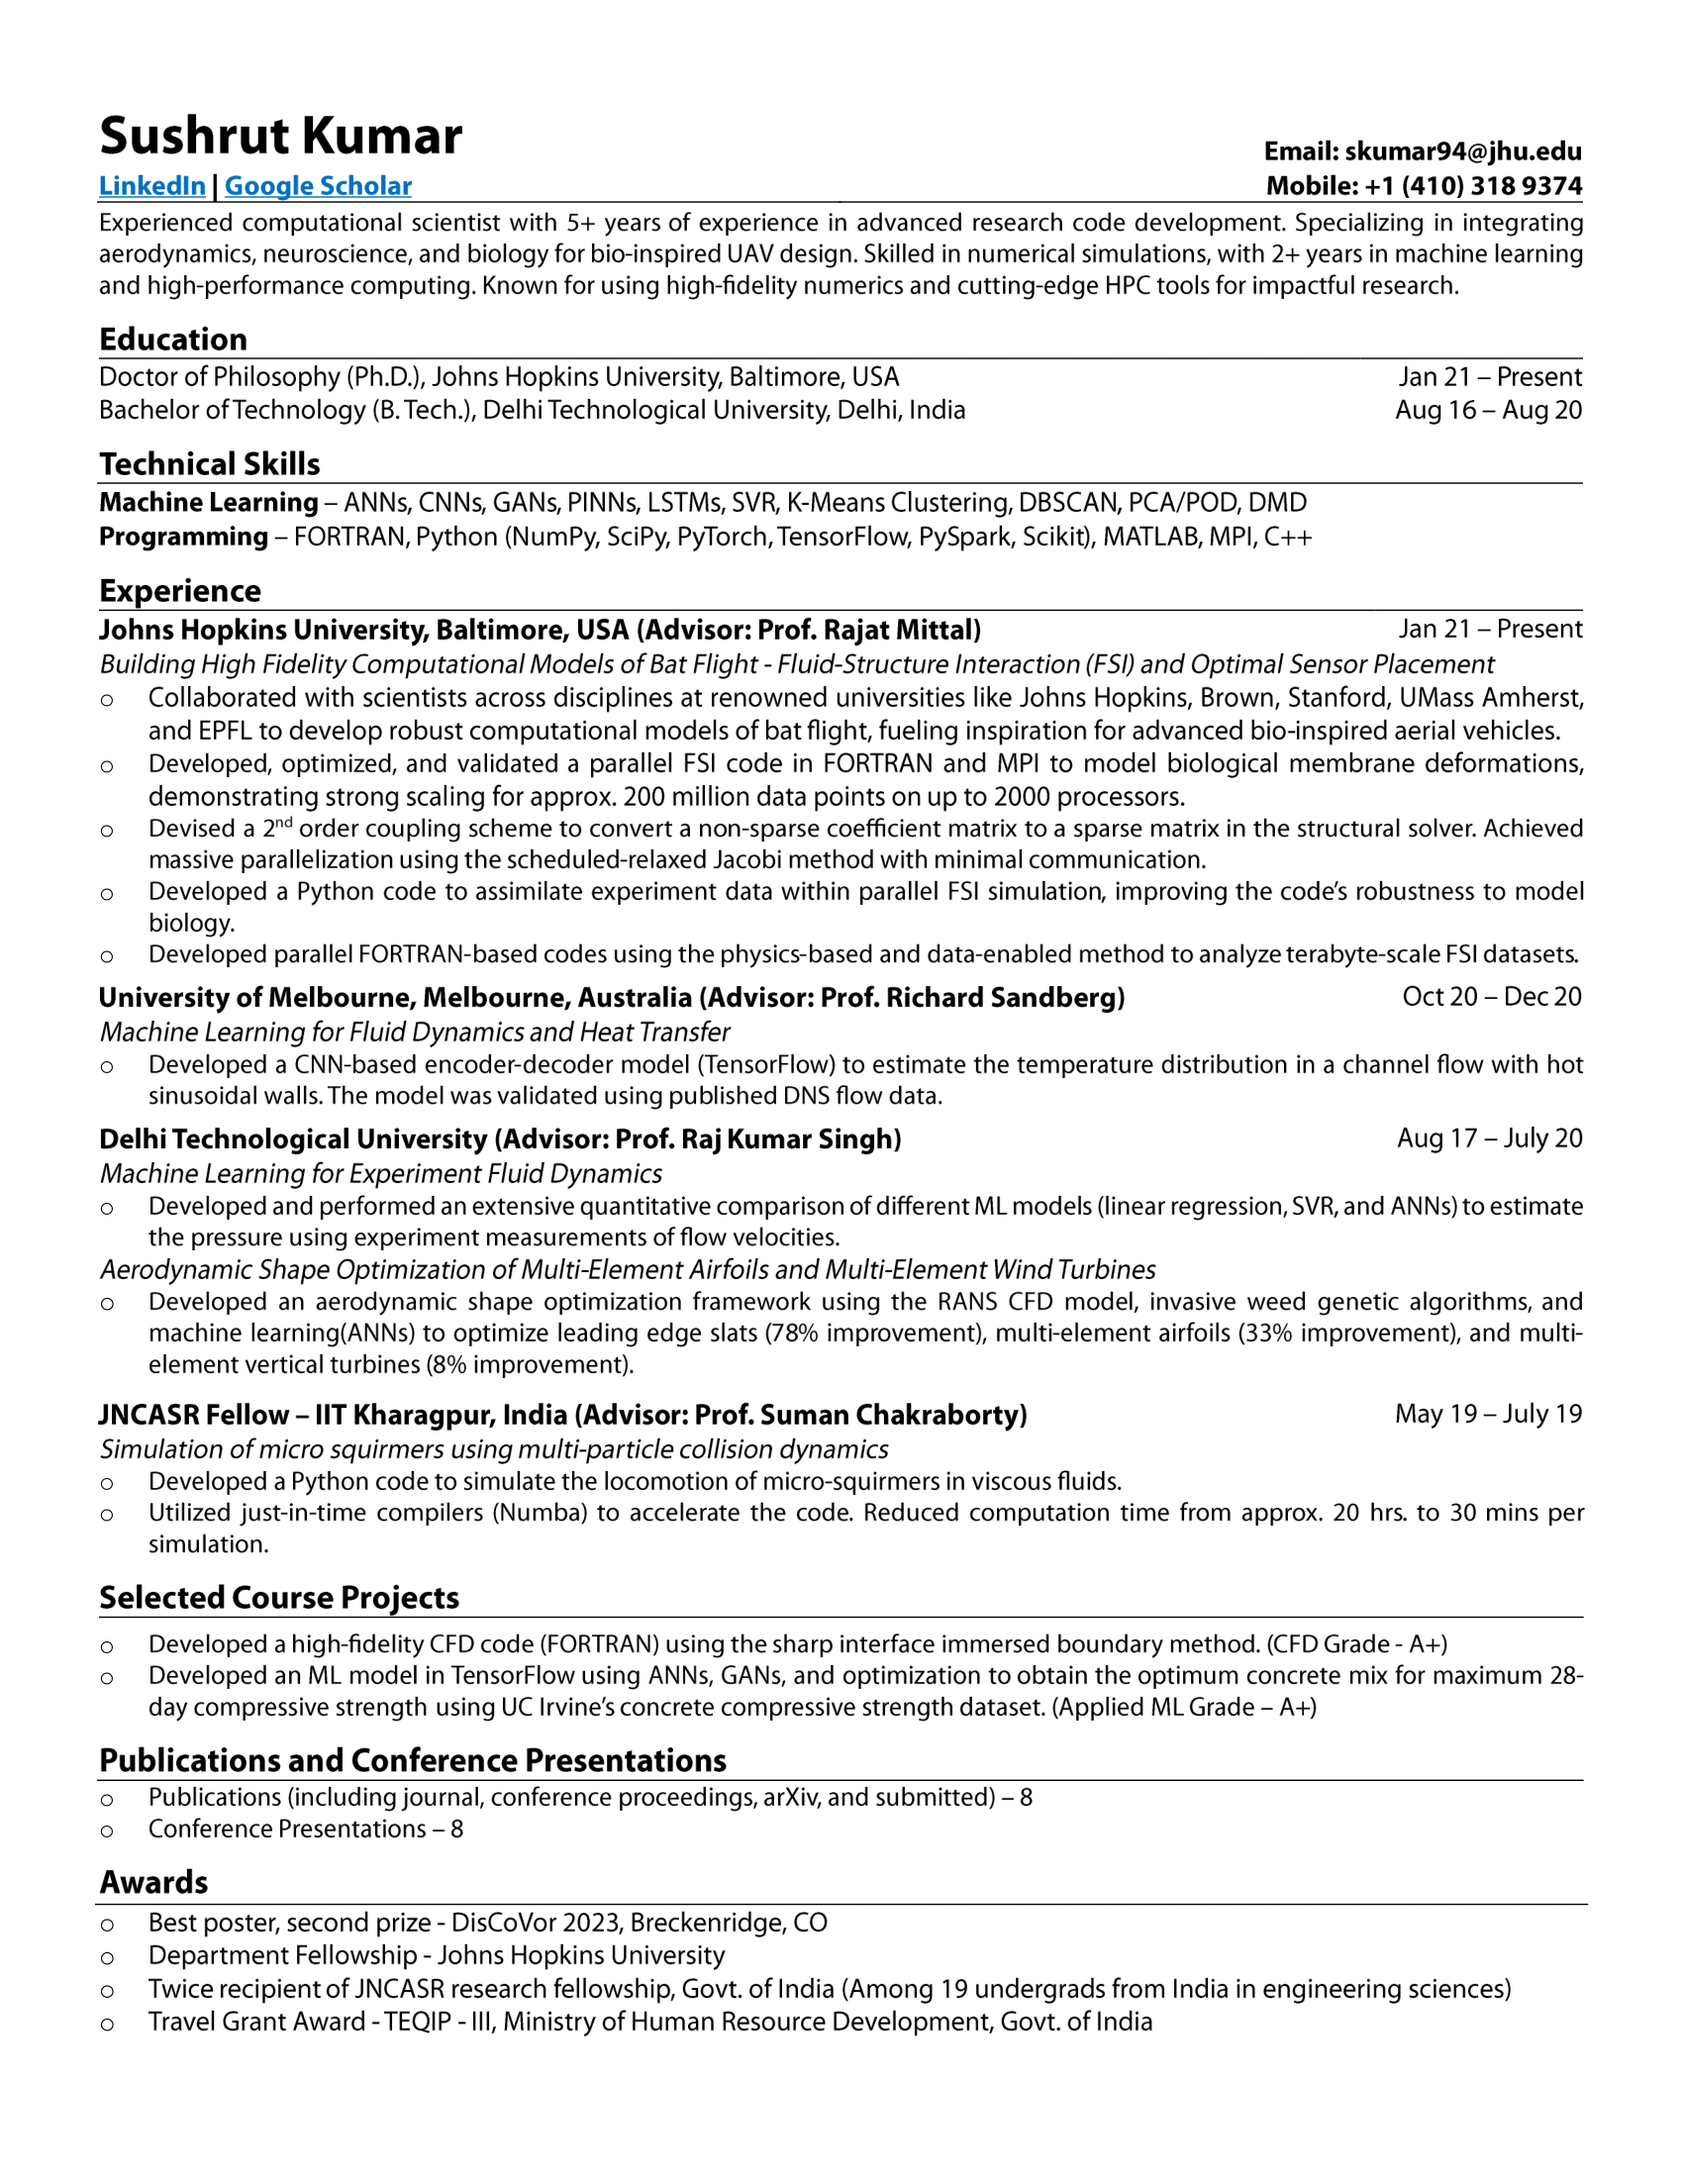
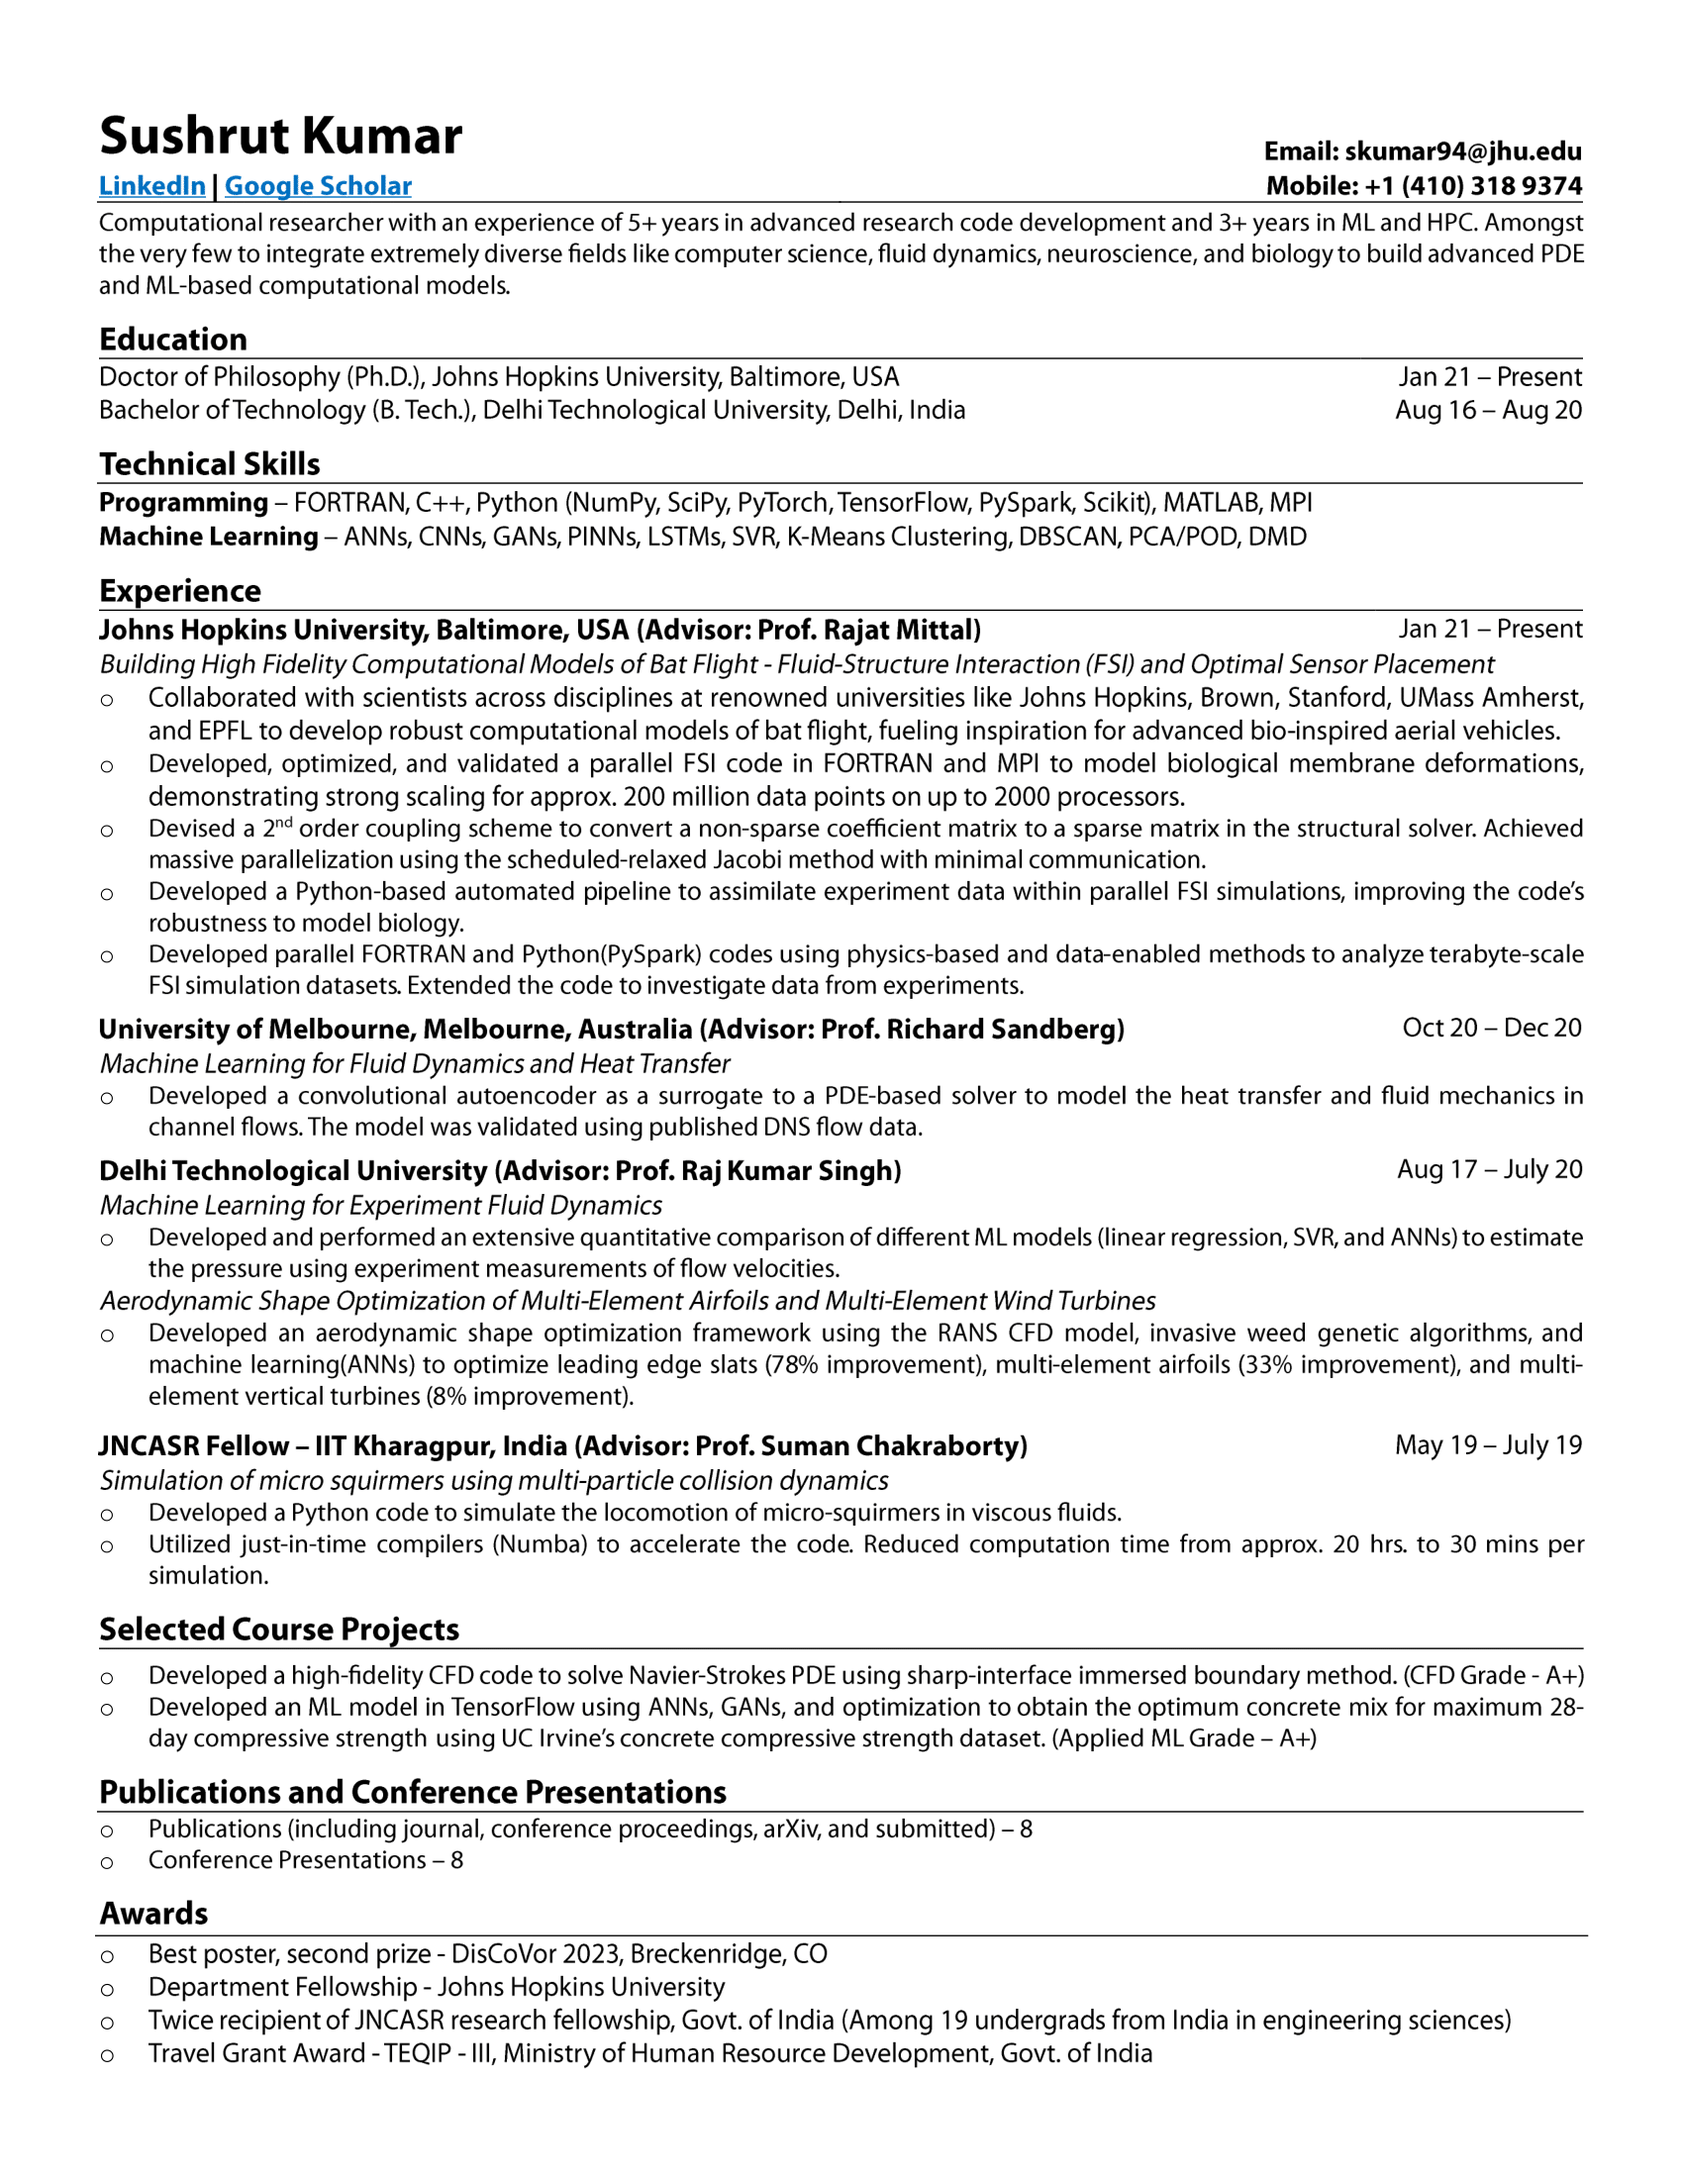
Intro updated

diff --git a/index.html b/index.html
@@ -120,7 +120,8 @@
                 <div class="col-md-8">
                     <p class="text-justify">
                         I am a Ph.D. candidate at the Johns Hopkins University working in the <a href="https://engineering.jhu.edu/fsag/" target="_blank">Flow Physics and Computation Laboratory</a> with Prof. Rajat Mittal. <br><br>
-                        At Hopkins, my research centers on developing cutting-edge computational models of bat flight. Here, I am focussing on two critical aspects: exploring the aerodynamics of highly flexible wings and investigating the neural mechanisms involved in flow sensing through mechanoreceptors. This unique and interdisciplinary project involves the integration of diverse fields such as computer science, aerodynamics, neuroscience, and biology. I am designing advanced computer algorithms and machine learning models capable of running efficiently on high-performance computing platforms to achieve this ambitious goal. Ultimately, my research endeavors aim to pave the way for the next generation of aviation technologies, harnessing the lessons from nature's remarkable aerial abilities. 
+
+                        At Hopkins, my research centers on developing PDE and ML based computational models of bat flight. Here, I am focussing on two critical aspects: exploring the aerodynamics of highly flexible wings and investigating the neural mechanisms involved in flow sensing through mechanoreceptors. This unique and interdisciplinary project involves the integration of diverse fields such as computer science, aerodynamics, neuroscience, and biology. I am developing advanced computer algorithms and ML models capable of running efficiently on HPC platforms to achieve this ambitious goal. Ultimately, my research endeavors aim to pave the way for the next generation of aviation technologies, harnessing the lessons from nature's remarkable aerial abilities. 
                         <br><br>
                         Here are some simulations performed using my parallel fluid-structure interaction code. The simulations were performed on ARCH's Rockfish supercomputer using 2048 processors.<br><br>
                         <iframe width="320" height="270" src="https://www.youtube.com/embed/WT0onFc3z1k?autoplay=1&loop=1" title="YouTube video player" frameborder="0" allow="accelerometer; autoplay; clipboard-write; encrypted-media; gyroscope; picture-in-picture; web-share" allowfullscreen></iframe>   
